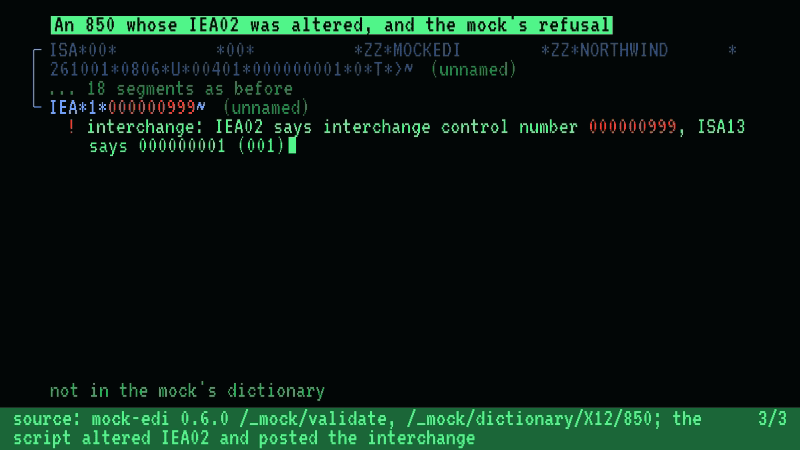
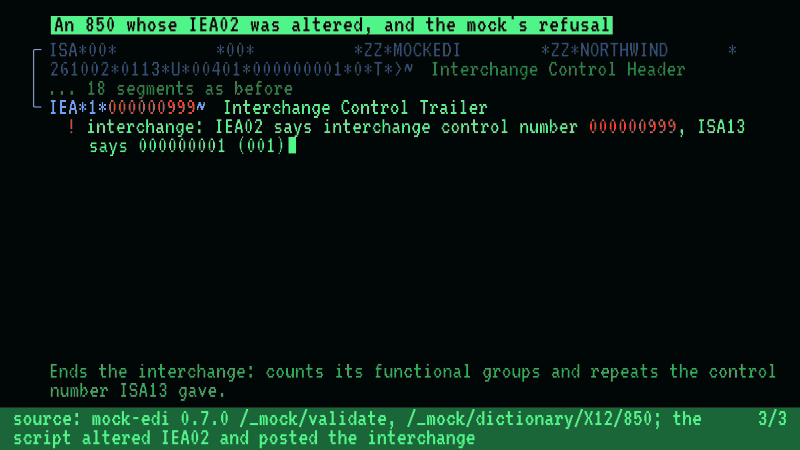
Sync films from mock-films e712cd3
Two new films: edi_plain (mock-edi 0.7.0), the plain order answered,
shipped and billed, and bank_nacha_film (mock-bank 0.6.0), the same
invoices in USD as NACHA. edi_waits, edi_overshipped and edi_850_film
re-captured at mock-edi 0.7.0; edi_850_film's alt text now says the
envelope segments are named. Stills rewritten; the other six films are
untouched.

Claude-Session: https://claude.ai/code/session_015RDTBgG3oYVSZTAaz1gNwq

diff --git a/index.html b/index.html
@@ -74,12 +74,16 @@ curl "http://127.0.0.1:8000/sap/opu/odata/sap/API_SALES_ORDER_SRV/A_SalesOrder?\
 			<figcaption>an order that waits for the clock <span>drawn by mock-films from a real run</span></figcaption>
 		</figure>
 		<figure class="film">
-			<a class="play" href="/blog/edi_850_film.gif" title="play the film"><img src="/blog/edi_850_film.png" width="800" height="450" loading="lazy" alt="The capture script asked mock-edi to place an order, and the X12 850 the mock wrote is typed segment by segment from ISA to IEA, each named from the mock's own dictionary; the envelope segments are not in it and are marked unnamed. The script then altered IEA02, the interchange control number, in a copy and posted the copy to /_mock/validate. Only the altered IEA is typed again, with the mock's refusal beneath it and the wrong number in red."></a>
+			<a class="play" href="/blog/edi_850_film.gif" title="play the film"><img src="/blog/edi_850_film.png" width="800" height="450" loading="lazy" alt="The capture script asked mock-edi to place an order, and the X12 850 the mock wrote is typed segment by segment from ISA to IEA, each named from the mock's own dictionary, the envelope segments included. The script then altered IEA02, the interchange control number, in a copy and posted the copy to /_mock/validate. Only the altered IEA is typed again, with the mock's refusal beneath it and the wrong number in red."></a>
 			<figcaption>an 850 opened, and an altered copy refused <span>drawn by mock-films from a real run</span></figcaption>
 		</figure>
 		<figure class="film">
 			<a class="play" href="/blog/edi_two_film.gif" data-poster-ms="14500" title="play the film"><img src="/blog/edi_two_film.png" width="800" height="450" loading="lazy" alt="BUYERCO's mock-edi sends an 850 to SELLERCO's mock-edi. The capture set the seller to short-ship and to delay its despatch and invoice, so it acknowledges the order, confirms 80 of the 100 ordered, and the buyer's mock flags the shortfall on that 855. The capture moves both mocks' clocks an hour at a time; the seller then packs and sends the despatch advice, and raises and sends the invoice, with the buyer's mock acknowledging each."></a>
 			<figcaption>two mocks trading, no script playing a partner <span>drawn by mock-films from a real run</span></figcaption>
+		</figure>
+		<figure class="film">
+			<a class="play" href="/blog/edi_plain.gif" title="play the film"><img src="/blog/edi_plain.png" width="800" height="450" loading="lazy" alt="ACME sends mock-edi a purchase order. The mock acknowledges it, answers with an order response, and records two promises, a despatch and an invoice. The capture script then advances the mock's clock: the mock packs the shipment and sends the despatch advice, then raises and sends the invoice, and each promise fills in as its work appears."></a>
+			<figcaption>an order answered, shipped and billed <span>drawn by mock-films from a real run</span></figcaption>
 		</figure>
 <pre><code>pip install mock-edi
 mock-edi --port 8080
@@ -120,6 +124,10 @@ curl -X POST --data-binary @order.edi http://127.0.0.1:8080/edi</code></pre>
 		<figure class="film">
 			<a class="play" href="/blog/bank_returned_film.gif" title="play the film"><img src="/blog/bank_returned_film.png" width="800" height="450" loading="lazy" alt="ACME pays one invoice of EUR 1250.00 through mock-bank; it is accepted, and the bank's own queue says a debit notification is due on Friday, which the film shows as a promise. On Friday the payment is booked and debited, and the queue then holds two more promises, a camt.054 and a pacs.004 due the next Wednesday. The capture script advances the bank's clock a day at a time: Saturday and Sunday are not business days, and no message about the payment arrives on Monday or Tuesday. On Wednesday the pacs.004 returns the payment with reason AC04 and the camt.054 credits the money back, each keeping its promise. The script had set ACME's account to have payments returned three business days later with AC04, one of the mock's behaviours."></a>
 			<figcaption>a payment that comes back <span>drawn by mock-films from a real run</span></figcaption>
+		</figure>
+		<figure class="film">
+			<a class="play" href="/blog/bank_nacha_film.gif" title="play the film"><img src="/blog/bank_nacha_film.png" width="800" height="450" loading="lazy" alt="ACME, set up to bank in US formats and dollars, sends mock-bank a NACHA file for the same four invoices and amounts as the ISO film, in USD. The bank's own acknowledgement, whose shape is the mock's choice and not NACHA's, rejects two with R02 and R03, and the queue shows two promises, a camt.054 and a return file. The capture script advances the bank's clock: the return file sends the two rejected payments back with the same codes, and the camt.054 books the other two, each keeping its promise. The acknowledgement is shown again, and the day's BAI2 statements close at 125000.00 and then 108750.00 with two entries, the rejected two on neither."></a>
+			<figcaption>the same invoices, in usd, as nacha <span>drawn by mock-films from a real run</span></figcaption>
 		</figure>
 <pre><code>pip install mock-bank
 mock-bank --port 8090
